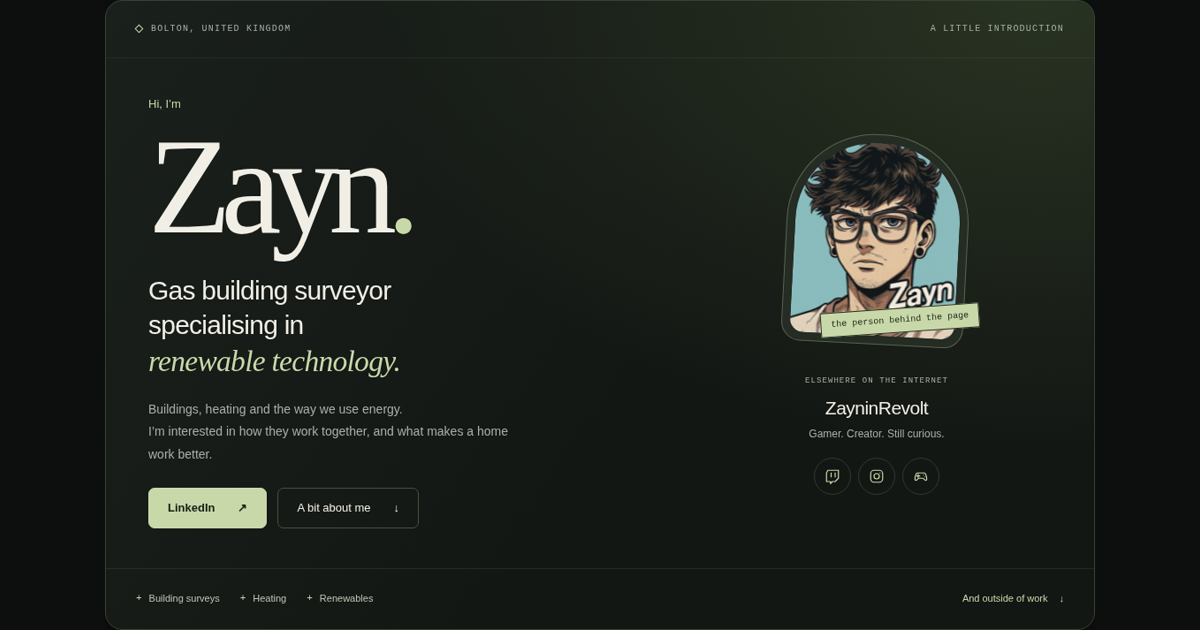
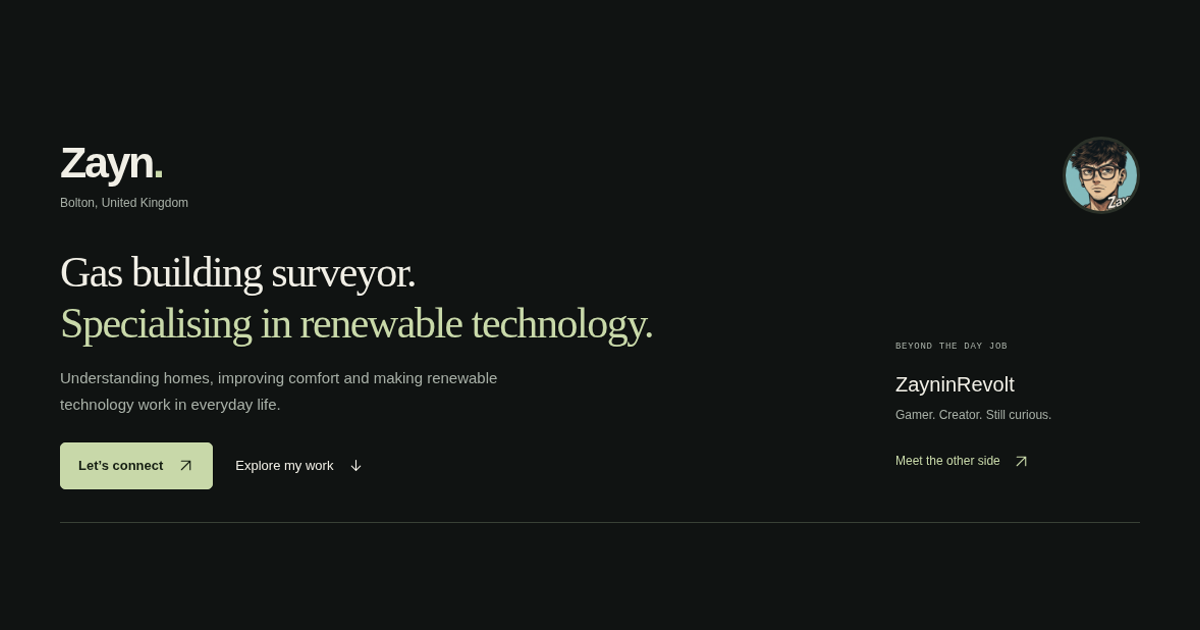
Publish approved open profile homepage design

diff --git a/index.html b/index.html
@@ -50,79 +50,9 @@
 </defs>
 </svg>
 <div class="wrap">
-<header class="site-header">
-<a class="brand" href="#main" aria-label="Zayn home">
-<span class="brand-symbol" aria-hidden="true">z</span>justzayn.com</a>
-<nav class="header-nav" aria-label="Main navigation">
-<a class="desktop-nav" href="#about">About</a>
-<a href="#personal">Beyond work</a>
-<a class="say-hi" href="#connect">Say hello <span class="arrow" aria-hidden="true">↗</span>
-</a>
-</nav>
-</header>
+<header class="site-header"><a class="brand" href="#main" aria-label="Zayn home">justzayn<span>.com</span></a><nav class="header-nav" aria-label="Main navigation"><a href="#personal">Beyond work</a><a class="say-hi" href="#connect">Say hello</a></nav></header>
 <main id="main">
-<section class="business-card" aria-labelledby="name">
-<div class="card-top">
-<span class="micro">
-<i class="location-mark" aria-hidden="true">
-</i>Bolton, United Kingdom</span>
-<span class="micro">A little introduction</span>
-</div>
-<div class="card-grid">
-<div class="hero">
-<p class="hello">Hi, I’m</p>
-<h1 id="name">Zayn<span>.</span>
-</h1>
-<h2 class="role">Gas building surveyor<br>specialising in<br>
-<em>renewable technology.</em>
-</h2>
-<p class="intro">Buildings, heating and the way we use energy.<br>I’m interested in how they work together, and what makes a home work better.</p>
-<div class="actions">
-<a class="button primary" href="https://uk.linkedin.com/in/richard-chamberlain-577043230">LinkedIn <span aria-hidden="true">↗</span>
-</a>
-<a class="button" href="#about">A bit about me <span aria-hidden="true">↓</span>
-</a>
-</div>
-</div>
-<aside class="identity" aria-label="My online identity">
-<div class="portrait-frame">
-<img src="/img/profile.png" width="170" height="256" alt="Zayn’s illustrated avatar, from his existing homepage">
-<span class="portrait-label">the person behind the page</span>
-</div>
-<div class="identity-copy">
-<span class="micro">Elsewhere on the internet</span>
-<p class="handle">ZayninRevolt</p>
-<p>Gamer. Creator. Still curious.</p>
-<div class="identity-links">
-<a class="mini-link" href="https://www.twitch.tv/zaynonfire" aria-label="Zayn on Twitch">
-<svg class="icon" aria-hidden="true">
-<use href="#stream-icon"/>
-</svg>
-</a>
-<a class="mini-link" href="https://www.instagram.com/zayninrevolt" aria-label="Zayn on Instagram">
-<svg class="icon" aria-hidden="true">
-<use href="#photo-icon"/>
-</svg>
-</a>
-<a class="mini-link" href="https://steamcommunity.com/id/ZaynOnFire" aria-label="Zayn on Steam">
-<svg class="icon" aria-hidden="true">
-<use href="#game-icon"/>
-</svg>
-</a>
-</div>
-</div>
-</aside>
-</div>
-<div class="card-footer">
-<div class="expertise">
-<span>Building surveys</span>
-<span>Heating</span>
-<span>Renewables</span>
-</div>
-<a href="#personal">And outside of work <span aria-hidden="true">↓</span>
-</a>
-</div>
-</section>
+<section class="open-intro" aria-labelledby="name"><div class="profile-row"><div class="profile-text"><h1 id="name">Zayn<span>.</span></h1><p class="profile-location">Bolton, United Kingdom</p></div><img class="avatar" src="/img/profile.png" width="76" height="76" alt="Zayn’s illustrated avatar"></div><div class="intro-body"><div><h2 class="profession">Gas building surveyor.<br><span>Specialising in renewable technology.</span></h2><p class="summary-copy">Understanding homes, improving comfort and making renewable technology work in everyday life.</p><div class="intro-actions"><a class="contact-button" href="https://uk.linkedin.com/in/richard-chamberlain-577043230">Let’s connect <svg class="nav-icon" viewBox="0 0 24 24" aria-hidden="true"><path d="M6 18 18 6M6 6h12v12"/></svg></a><a class="about-button" href="#about">Explore my work <svg class="nav-icon" viewBox="0 0 24 24" aria-hidden="true"><path d="M12 5v14m-6-6 6 6 6-6"/></svg></a></div></div><div class="personal-line"><span class="small-label">Beyond the day job</span><strong>ZayninRevolt</strong><span>Gamer. Creator. Still curious.</span><a href="#personal">Meet the other side <svg class="nav-icon" viewBox="0 0 24 24" aria-hidden="true"><path d="M6 18 18 6M6 6h12v12"/></svg></a></div></div></section>
 <section class="about" id="about" aria-labelledby="about-title">
 <div class="section-label">
 <span>01</span> The professional side</div>
@@ -154,7 +84,7 @@
 </details>
 </div>
 </div>
-<a class="professional-link" href="https://uk.linkedin.com/in/richard-chamberlain-577043230">More about my professional background <span aria-hidden="true">↗</span></a>
+<a class="professional-link" href="https://uk.linkedin.com/in/richard-chamberlain-577043230">More about my professional background <svg class="nav-icon" viewBox="0 0 24 24" aria-hidden="true"><path d="M6 18 18 6M6 6h12v12"/></svg></a>
 </section>
 <section class="personal" id="personal" aria-labelledby="personal-title">
 <h2 class="section-label" id="personal-title">
@@ -167,7 +97,7 @@
 </div>
 <h3>DokkaDoki</h3>
 <p>A little Japanese escape in Bury. Manga, coffee and a place to get lost in a good story.</p>
-<a class="tile-link" href="https://dokkadoki.co.uk/">Explore DokkaDoki <span class="arrow" aria-hidden="true">↗</span>
+<a class="tile-link" href="https://dokkadoki.co.uk/">Explore DokkaDoki <svg class="nav-icon" viewBox="0 0 24 24" aria-hidden="true"><path d="M6 18 18 6M6 6h12v12"/></svg>
 </a>
 </article>
 <article class="tile games">
@@ -182,7 +112,7 @@
 <li>Valheim</li>
 <li>Phasmophobia</li>
 </ul>
-<a class="tile-link" href="https://www.twitch.tv/zaynonfire">Find me on Twitch <span class="arrow" aria-hidden="true">↗</span>
+<a class="tile-link" href="https://www.twitch.tv/zaynonfire">Find me on Twitch <svg class="nav-icon" viewBox="0 0 24 24" aria-hidden="true"><path d="M6 18 18 6M6 6h12v12"/></svg>
 </a>
 </article>
 <article class="tile music-tile">
@@ -232,7 +162,7 @@
 <i>
 </i>
 </div>
-<a class="tile-link" href="https://open.spotify.com/playlist/32JiIjyJ5ctyqG7LkSZaFA">Open the playlist <span class="arrow" aria-hidden="true">↗</span>
+<a class="tile-link" href="https://open.spotify.com/playlist/32JiIjyJ5ctyqG7LkSZaFA">Open the playlist <svg class="nav-icon" viewBox="0 0 24 24" aria-hidden="true"><path d="M6 18 18 6M6 6h12v12"/></svg>
 </a>
 </article>
 </div>
@@ -245,28 +175,28 @@
 <p>A question about renewables, a shared interest, or just a hello. Here’s where to find me.</p>
 </div>
 <nav class="social-grid" aria-label="Social profiles">
-<a class="social-link" href="https://uk.linkedin.com/in/richard-chamberlain-577043230">LinkedIn <span class="arrow" aria-hidden="true">↗</span>
+<a class="social-link" href="https://uk.linkedin.com/in/richard-chamberlain-577043230">LinkedIn <svg class="nav-icon" viewBox="0 0 24 24" aria-hidden="true"><path d="M6 18 18 6M6 6h12v12"/></svg>
 </a>
-<a class="social-link" href="https://discord.com/users/531892280726913034">Discord <span class="arrow" aria-hidden="true">↗</span>
+<a class="social-link" href="https://discord.com/users/531892280726913034">Discord <svg class="nav-icon" viewBox="0 0 24 24" aria-hidden="true"><path d="M6 18 18 6M6 6h12v12"/></svg>
 </a>
-<a class="social-link" href="https://www.instagram.com/zayninrevolt">Instagram <span class="arrow" aria-hidden="true">↗</span>
+<a class="social-link" href="https://www.instagram.com/zayninrevolt">Instagram <svg class="nav-icon" viewBox="0 0 24 24" aria-hidden="true"><path d="M6 18 18 6M6 6h12v12"/></svg>
 </a>
-<a class="social-link" href="https://www.tiktok.com/@zayninrevolt">TikTok <span class="arrow" aria-hidden="true">↗</span>
+<a class="social-link" href="https://www.tiktok.com/@zayninrevolt">TikTok <svg class="nav-icon" viewBox="0 0 24 24" aria-hidden="true"><path d="M6 18 18 6M6 6h12v12"/></svg>
 </a>
-<a class="social-link" href="https://www.youtube.com/@zaynonfire">YouTube <span class="arrow" aria-hidden="true">↗</span>
+<a class="social-link" href="https://www.youtube.com/@zaynonfire">YouTube <svg class="nav-icon" viewBox="0 0 24 24" aria-hidden="true"><path d="M6 18 18 6M6 6h12v12"/></svg>
 </a>
-<a class="social-link" href="https://www.twitch.tv/zaynonfire">Twitch <span class="arrow" aria-hidden="true">↗</span>
+<a class="social-link" href="https://www.twitch.tv/zaynonfire">Twitch <svg class="nav-icon" viewBox="0 0 24 24" aria-hidden="true"><path d="M6 18 18 6M6 6h12v12"/></svg>
 </a>
-<a class="social-link" href="https://steamcommunity.com/id/ZaynOnFire">Steam <span class="arrow" aria-hidden="true">↗</span>
+<a class="social-link" href="https://steamcommunity.com/id/ZaynOnFire">Steam <svg class="nav-icon" viewBox="0 0 24 24" aria-hidden="true"><path d="M6 18 18 6M6 6h12v12"/></svg>
 </a>
-<a class="social-link" href="https://open.spotify.com/playlist/32JiIjyJ5ctyqG7LkSZaFA">Spotify <span class="arrow" aria-hidden="true">↗</span>
+<a class="social-link" href="https://open.spotify.com/playlist/32JiIjyJ5ctyqG7LkSZaFA">Spotify <svg class="nav-icon" viewBox="0 0 24 24" aria-hidden="true"><path d="M6 18 18 6M6 6h12v12"/></svg>
 </a>
-<a class="social-link" href="https://overwatch.blizzard.com/en-us/career/Zayn-21529/">Overwatch profile <span class="arrow" aria-hidden="true">↗</span>
+<a class="social-link" href="https://overwatch.blizzard.com/en-us/career/Zayn-21529/">Overwatch profile <svg class="nav-icon" viewBox="0 0 24 24" aria-hidden="true"><path d="M6 18 18 6M6 6h12v12"/></svg>
 </a>
 </nav>
 <div class="retro-note">
 <span>Prefer the tiny, slightly cursed Windows 98 desktop?</span>
-<a href="/desktop/">Visit the original homepage <span aria-hidden="true">↗</span>
+<a href="/desktop/">Visit the original homepage <svg class="nav-icon" viewBox="0 0 24 24" aria-hidden="true"><path d="M6 18 18 6M6 6h12v12"/></svg>
 </a>
 </div>
 </section>
@@ -274,9 +204,10 @@
 <footer class="footer">
 <span>Zayn / Bolton, UK</span>
 <a href="/links/">Simple links</a>
-<a href="#main">Back to the introduction ↑</a>
+<a href="#main">Back to the introduction &#8593;&#65038;</a>
 </footer>
 </div>
+
 <script data-goatcounter="https://justzayn.goatcounter.com/count" async src="https://gc.zgo.at/count.js">
 </script>
 </body>

diff --git a/home.css b/home.css
@@ -237,3 +237,21 @@ details p{margin:0;padding:0 25px 18px 31px;color:var(--muted);font-size:13px;li
 @media(max-width:700px) { .social-grid .social-link:last-child { grid-column: 1 / -1; }
  }
 
+
+/* Approved open-profile layout. */
+.wrap{width:min(1060px,calc(100% - 64px))}
+.site-header{height:88px}.brand{font-weight:700;letter-spacing:-.035em;font-size:16px;gap:0}.brand span{color:var(--muted);font-weight:400}.header-nav{gap:25px}
+.nav-icon{width:17px;height:17px;flex:0 0 17px;fill:none;stroke:currentColor;stroke-width:1.6;stroke-linecap:round;stroke-linejoin:round;display:inline-block;vertical-align:middle}
+.profile-row{display:flex;align-items:center;gap:20px}.avatar{object-fit:cover;object-position:center 25%;border-radius:22px;filter:saturate(.75);background:#242c23}
+.profile-text h1{font-family:Arial,Helvetica,sans-serif;font-weight:600;font-size:48px;letter-spacing:-.055em;line-height:1.1;margin:0 0 7px}.profile-text h1 span{color:var(--accent)}.profile-location{font-size:12px;color:var(--muted);margin:0}
+.profession{font-weight:500;line-height:1.28;letter-spacing:-.035em;margin:28px 0 0;font-size:32px;max-width:600px}.profession span{color:var(--accent)}
+.summary-copy{color:var(--muted);font-size:15px;line-height:1.75;max-width:500px;margin:16px 0 23px}
+.intro-actions{display:flex;align-items:center;gap:22px;flex-wrap:wrap}.contact-button,.about-button{display:inline-flex;align-items:center;justify-content:center;gap:14px;min-height:46px;font-size:13px}.contact-button{background:var(--accent);color:#172014;border:1px solid var(--accent);padding:10px 17px;border-radius:8px;font-weight:600}.contact-button:hover{background:#e0ebcc}.about-button{color:var(--ink)}.about-button:hover{text-decoration:underline;text-underline-offset:5px}
+.personal-line{font-size:12px;color:var(--muted)}.personal-line strong{color:var(--ink);font-weight:500}.status-dot{height:6px;width:6px;flex:0 0 6px;border-radius:50%;background:var(--accent)}
+.about{padding-top:37px}.about h2{font-family:Arial,Helvetica,sans-serif;font-size:29px;font-weight:500;line-height:1.25;letter-spacing:-.035em}.about h2 em{font-family:inherit;font-style:normal}.about-copy>p{font-size:14px}.about-layout{gap:45px}details p{font-size:14px}.professional-link{font-size:13px}.section-label{font-size:10px;letter-spacing:.07em}
+@media(max-width:700px){.wrap{width:calc(100% - 40px)}.site-header{height:72px}.header-nav{gap:17px;font-size:11px}.brand{font-size:14px}.profile-text h1{font-size:39px}.profile-row{gap:17px}.profile-location{font-size:11px}.profession{font-size:25px;line-height:1.3;margin-top:24px}.summary-copy{font-size:13px;line-height:1.75;margin:14px 0 21px}.intro-actions{gap:16px}.contact-button,.about-button{font-size:12px}.contact-button{padding:10px 14px;gap:11px}.about-button{gap:8px}.about-layout{gap:24px;margin-top:21px}.about h2{font-size:27px}.about-copy>p{font-size:13px}.section-label{font-size:9px}.professional-link{font-size:12px}.personal-line{font-size:11px}}
+@media(max-width:355px){.wrap{width:calc(100% - 32px)}.header-nav{gap:12px}.brand{font-size:13px}.profession{font-size:23px}.intro-actions{gap:10px}.contact-button{font-size:11px;padding:10px 12px}.about-button{font-size:11px}.profile-text h1{font-size:35px}}
+
+body{background:#101312}.open-intro{padding:30px 0 32px;border-bottom:1px solid #394136}.open-intro .profile-row{justify-content:space-between}.open-intro .avatar{width:76px;height:76px;border-radius:50%;border:3px solid #283126}.open-intro .profile-text h1{font-size:43px}.open-intro .intro-body{display:grid;grid-template-columns:minmax(0,1fr) 240px;gap:60px;align-items:end}.open-intro .profession{font-family:Georgia,'Times New Roman',serif;font-size:42px;font-weight:400;letter-spacing:-.035em;line-height:1.18;margin-top:33px}.open-intro .profession span{color:#c8d8a9}.open-intro .personal-line{display:flex;flex-direction:column;align-items:flex-start;gap:5px;padding:20px 0 5px}.small-label{font-family:var(--mono);text-transform:uppercase;letter-spacing:.08em;font-size:9px;color:var(--muted);margin-bottom:9px}.open-intro .personal-line strong{font-size:20px}.open-intro .personal-line a{display:flex;align-items:center;gap:12px;color:var(--accent);min-height:44px;font-size:12px;margin-top:9px}.open-intro .contact-button{border-radius:5px}.open-intro .summary-copy{max-width:460px}
+@media(max-width:700px){.open-intro{padding:14px 0 19px}.open-intro .profile-text h1{font-size:36px}.open-intro .avatar{width:66px;height:66px}.open-intro .intro-body{display:block}.open-intro .profession{font-size:32px;line-height:1.2;margin-top:26px;max-width:360px}.open-intro .summary-copy{margin-top:17px;max-width:325px}.open-intro .personal-line{border-top:1px solid #ffffff12;margin-top:26px;padding:18px 0 0;display:grid;grid-template-columns:1fr auto;gap:3px 12px}.open-intro .personal-line .small-label{grid-column:1/-1;margin-bottom:4px;font-size:8px}.open-intro .personal-line strong{font-size:16px}.open-intro .personal-line>span:last-of-type{grid-column:1;font-size:11px}.open-intro .personal-line a{grid-column:2;grid-row:2 / span 2;margin:0;font-size:10px;gap:7px}.open-intro .personal-line a .nav-icon{width:14px;flex-basis:14px}.about{padding-top:29px}}
+@media(max-width:355px){.open-intro .profession{font-size:29px}.open-intro .personal-line{column-gap:8px}.open-intro .personal-line a{font-size:9px}}

diff --git a/test/browser/homepage.spec.js b/test/browser/homepage.spec.js
@@ -14,9 +14,11 @@ for (const [width, height] of [[320,568],[390,844],[430,932],[768,1024],[844,390
     page.on('console', message => { if (message.type() === 'error') errors.push(message.text()); });
     await page.setViewportSize({width,height});
     await page.goto('/');
-    await expect(page.locator('.card-grid')).toHaveCSS('display','grid');
-    await expect(page.locator('.hero h1')).toHaveCSS('font-family', /Georgia/);
-    await expect(page.locator('.button.primary')).toHaveCSS('background-color','rgb(200, 216, 169)');
+    await expect(page.locator('.open-intro .profile-row')).toHaveCSS('display','flex');
+    await expect(page.locator('.profession')).toHaveCSS('font-family', /Georgia/);
+    await expect(page.locator('.contact-button')).toHaveCSS('background-color','rgb(200, 216, 169)');
+    await expect(page.locator('.avatar')).toHaveCSS('border-radius','50%');
+    await expect(page.locator('.open-intro')).toHaveCSS('border-top-width','0px');
     await expect(page.locator('.site-header')).toBeVisible();
     expect(await page.evaluate(() => document.documentElement.scrollWidth <= innerWidth)).toBe(true);
     expect(await page.locator('main *').evaluateAll(elements => elements.filter(el => {
@@ -56,7 +58,7 @@ test('homepage and simple links remain usable without JavaScript', async ({ brow
   const context=await browser.newContext({javaScriptEnabled:false,viewport:{width:390,height:844}});
   const page=await context.newPage();
   await page.goto('/');
-  await expect(page.locator('.hero').getByRole('link',{name:'LinkedIn',exact:true})).toHaveAttribute('href',linkedin);
+  await expect(page.locator('.contact-button')).toHaveAttribute('href',linkedin);
   await page.locator('details').nth(2).locator('summary').click();
   await expect(page.locator('details').nth(2)).toHaveAttribute('open','');
   await page.getByRole('link',{name:'Simple links',exact:true}).click();
@@ -91,7 +93,7 @@ test('homepage introduces Zayn and offers the exact professional LinkedIn contac
   await page.route('https://gc.zgo.at/**', route => route.fulfill({ contentType: 'application/javascript', body: '' }));
   await page.goto('/');
   await expect(page.getByRole('heading', { level: 1 })).toHaveText('Zayn.', { timeout: 2000 });
-  await expect(page.locator('.role')).toHaveText(/Gas building surveyor\s*specialising in\s*renewable technology\./);
-  await expect(page.locator('.hero').getByRole('link', { name: 'LinkedIn', exact: true })).toHaveAttribute('href', linkedin);
+  await expect(page.locator('.profession')).toHaveText(/Gas building surveyor\.\s*Specialising in\s*renewable technology\./);
+  await expect(page.locator('.contact-button')).toHaveAttribute('href', linkedin);
   await expect(page.getByRole('link', { name: 'Visit the original homepage' })).toHaveAttribute('href', '/desktop/');
 });

diff --git a/test/homepage.test.js b/test/homepage.test.js
@@ -34,8 +34,10 @@ test('homepage security allows existing analytics but no inline code or embeds',
 test('production styles retain the complete approved stylesheet', async () => {
   const css = await readFile(new URL('home.css', root), 'utf8');
   assert.doesNotMatch(css, /\[truncated\]/);
-  assert.match(css, /\.card-grid\{display:grid/);
-  assert.match(css, /\.hero h1\{font-family:var\(--serif\)/);
+  assert.match(css, /\.open-intro\{padding:/);
+  assert.match(css, /\.open-intro \.profession\{font-family:Georgia/);
+  assert.match(html, /class="open-intro"/);
+  assert.doesNotMatch(html, /class="business-card"|>↗</);
 });
 
 test('homepage social preview is a real local 1200 by 630 PNG with current metadata', async () => {
